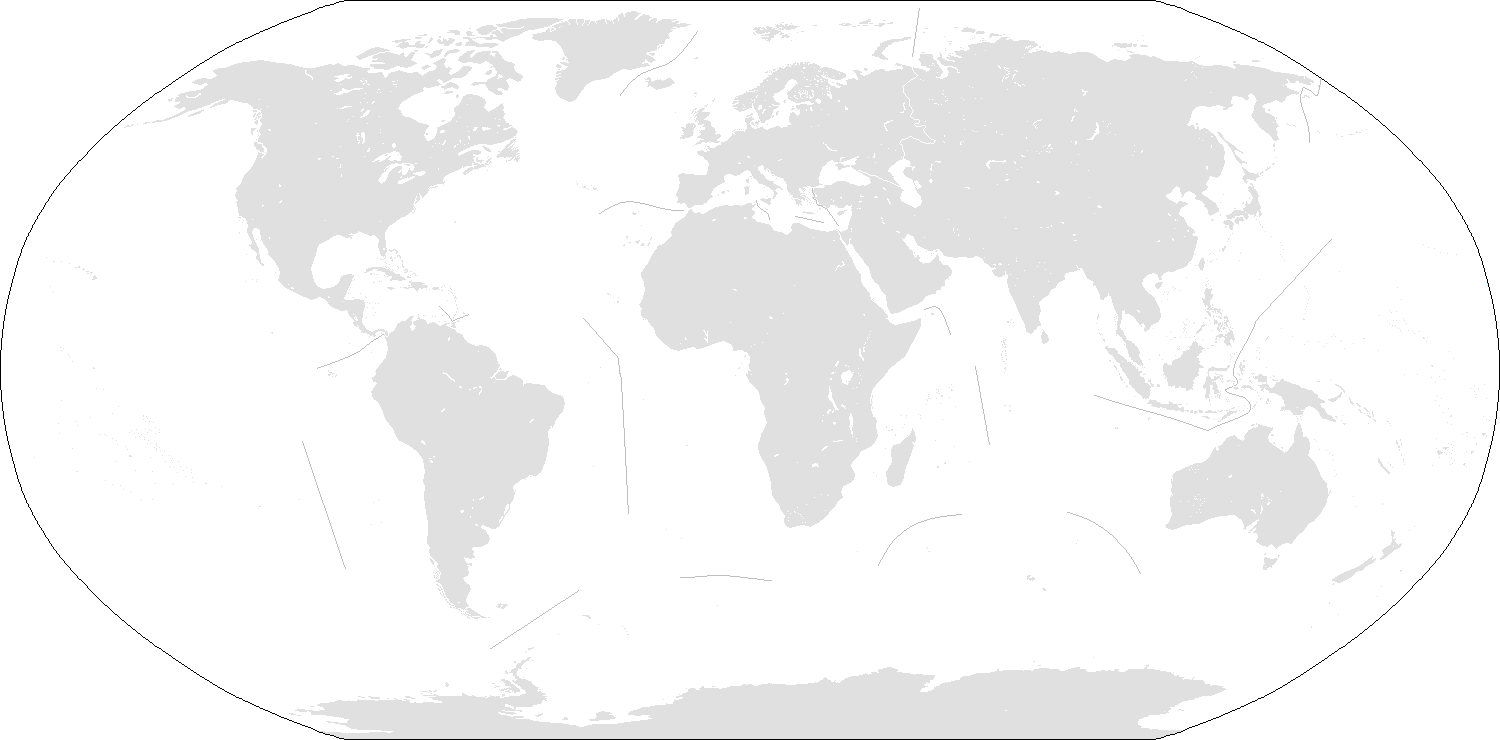
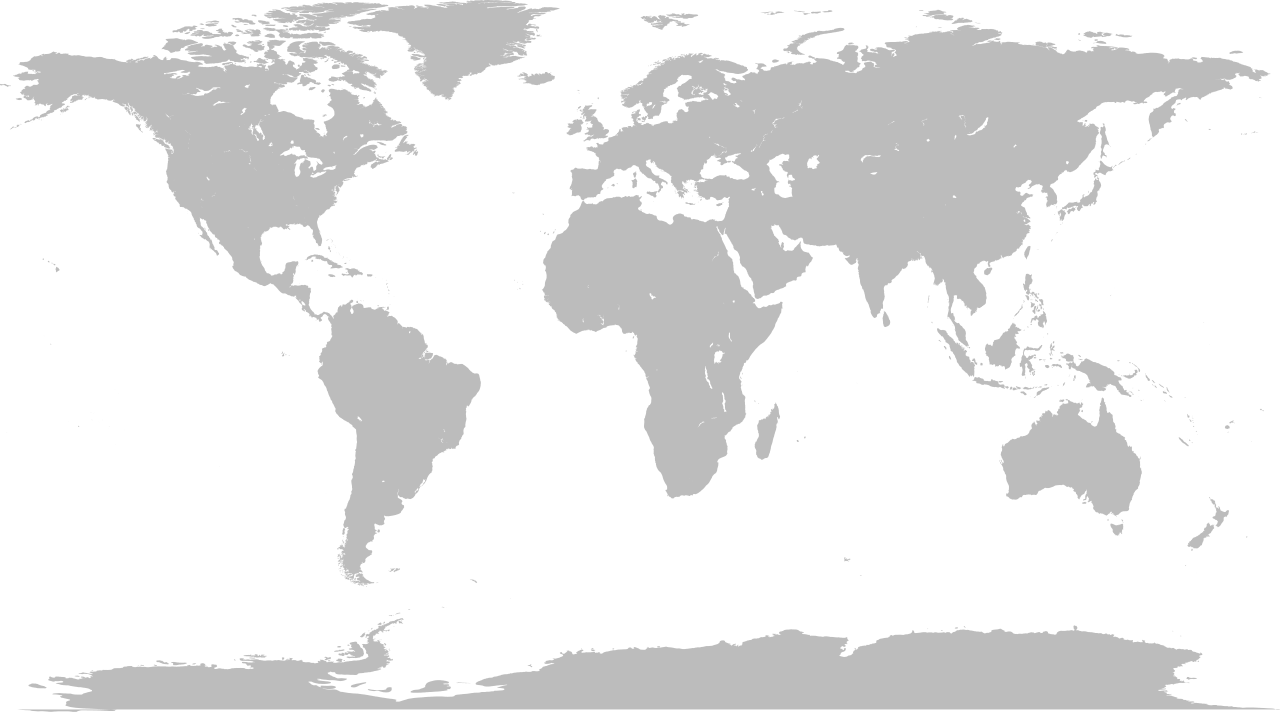
Update maps activity with outline images and fill-in answer lines
Replace colored map images with clean outline-only versions (white fill, black borders)
from Wikimedia Commons. Add numbered fill-in lines (1. ________) below word bank for
students to write answers. Update SVG dimensions and callout bubble coordinates for
new map images. Add CSS grid for two-column answer line layout.

diff --git a/js/maps.js b/js/maps.js
@@ -13,32 +13,32 @@ function oceanLabel(x, y, letter) {
 }
 
 function buildWorldContinents() {
-  return `<svg viewBox="0 0 1500 740" xmlns="http://www.w3.org/2000/svg" class="sci-svg sci-svg--world">
-<image href="images/maps/world-continents.png" x="0" y="0" width="1500" height="740"/>
-${mapCallout(284, 160, 1)}   <!-- North America -->
-${mapCallout(427, 374, 2)}   <!-- South America -->
-${mapCallout(694, 142, 3)}   <!-- Europe -->
-${mapCallout(712, 303, 4)}   <!-- Africa -->
-${mapCallout(961, 160, 5)}   <!-- Asia -->
-${mapCallout(1121, 409, 6)}  <!-- Australia -->
-${mapCallout(750, 587, 7)}   <!-- Antarctica -->
-${oceanLabel(107, 320, 'A')} <!-- Pacific Ocean -->
-${oceanLabel(534, 320, 'B')} <!-- Atlantic Ocean -->
-${oceanLabel(926, 392, 'C')} <!-- Indian Ocean -->
-${oceanLabel(750, 60, 'D')}  <!-- Arctic Ocean -->
+  return `<svg viewBox="0 0 1280 712" xmlns="http://www.w3.org/2000/svg" class="sci-svg sci-svg--world">
+<image href="images/maps/world-continents.png" x="0" y="0" width="1280" height="712"/>
+${mapCallout(250, 200, 1)}   <!-- North America -->
+${mapCallout(400, 480, 2)}   <!-- South America -->
+${mapCallout(650, 160, 3)}   <!-- Europe -->
+${mapCallout(680, 420, 4)}   <!-- Africa -->
+${mapCallout(920, 200, 5)}   <!-- Asia -->
+${mapCallout(1050, 520, 6)}  <!-- Australia -->
+${mapCallout(640, 690, 7)}   <!-- Antarctica -->
+${oceanLabel(100, 350, 'A')} <!-- Pacific Ocean -->
+${oceanLabel(500, 350, 'B')} <!-- Atlantic Ocean -->
+${oceanLabel(880, 480, 'C')} <!-- Indian Ocean -->
+${oceanLabel(640, 40, 'D')}  <!-- Arctic Ocean -->
 </svg>`;
 }
 
 function buildNorthAmerica() {
-  return `<svg viewBox="0 0 453 600" xmlns="http://www.w3.org/2000/svg" class="sci-svg sci-svg--medium">
-<image href="images/maps/north-america.png" x="0" y="0" width="453" height="600"/>
-${mapCallout(226, 150, 1)}   <!-- Canada -->
-${mapCallout(60, 100, 2)}    <!-- Alaska -->
-${mapCallout(430, 120, 3)}   <!-- Greenland -->
-${mapCallout(280, 350, 4)}   <!-- United States -->
-${mapCallout(200, 450, 5)}   <!-- Mexico -->
-${mapCallout(320, 420, 6)}   <!-- Cuba -->
-${mapCallout(240, 500, 7)}   <!-- Central America -->
+  return `<svg viewBox="0 0 1876 1964" xmlns="http://www.w3.org/2000/svg" class="sci-svg sci-svg--medium">
+<image href="images/maps/north-america.png" x="0" y="0" width="1876" height="1964"/>
+${mapCallout(950, 550, 1)}    <!-- Canada -->
+${mapCallout(200, 450, 2)}    <!-- Alaska -->
+${mapCallout(1750, 450, 3)}   <!-- Greenland -->
+${mapCallout(1020, 1250, 4)}  <!-- United States -->
+${mapCallout(850, 1650, 5)}   <!-- Mexico -->
+${mapCallout(1250, 1550, 6)}  <!-- Cuba -->
+${mapCallout(950, 1850, 7)}   <!-- Central America -->
 </svg>`;
 }
 
@@ -56,6 +56,20 @@ const MAPS = {
     svg: buildNorthAmerica
   }
 };
+
+function buildAnswerLines(numbered, lettered) {
+  let html = '<div class="map-answer-grid">';
+  const allLabels = [...numbered, ...lettered.map((l, i) => `${String.fromCharCode(65 + i)}`).map((letter, i) => letter)];
+  const labelList = [...numbered, ...lettered];
+
+  labelList.forEach((label, i) => {
+    const num = i < numbered.length ? (i + 1) : String.fromCharCode(65 + i - numbered.length);
+    html += `<div class="map-answer-row"><span class="map-answer-num">${num}.</span><div class="answer-line"></div></div>`;
+  });
+
+  html += '</div>';
+  return html;
+}
 
 function shuffleArray(arr) {
   const a = [...arr];
@@ -88,6 +102,8 @@ function generate() {
   bankLabels.forEach(l => { bankHtml += `<span class="sci-bank-word">${l}</span>`; });
   bankHtml += '</div>';
   bankEl.innerHTML = bankHtml;
+
+  document.getElementById('map-answer-lines').innerHTML = buildAnswerLines(def.numbered, def.lettered);
 
   let akHtml = '<div class="answer-key-header"><h2>Answer Key</h2><p>' + def.title + '</p></div>';
   akHtml += '<div class="lang-answer-grid">';

diff --git a/css/style.css b/css/style.css
@@ -2256,6 +2256,33 @@ body {
   break-before: page;
 }
 
+.map-answer-section {
+  margin-top: 1.25rem;
+  margin-bottom: 1rem;
+}
+
+.map-answer-grid {
+  display: grid;
+  grid-template-columns: 1fr 1fr;
+  gap: 0.6rem 2rem;
+}
+
+.map-answer-row {
+  display: flex;
+  align-items: flex-end;
+  gap: 0.4rem;
+}
+
+.map-answer-num {
+  font-size: 0.92rem;
+  font-weight: 600;
+  white-space: nowrap;
+}
+
+.map-answer-row .answer-line {
+  flex: 1;
+}
+
 /* ============================================================
    PRINT STYLES
    ============================================================ */

diff --git a/maps.html b/maps.html
@@ -53,6 +53,8 @@
 
       <div id="map-word-bank" class="sci-word-bank"></div>
 
+      <div id="map-answer-lines" class="map-answer-section"></div>
+
       <div id="map-answer-key" class="sci-answer-key answer-key"></div>
 
       <div class="output-actions no-print">
